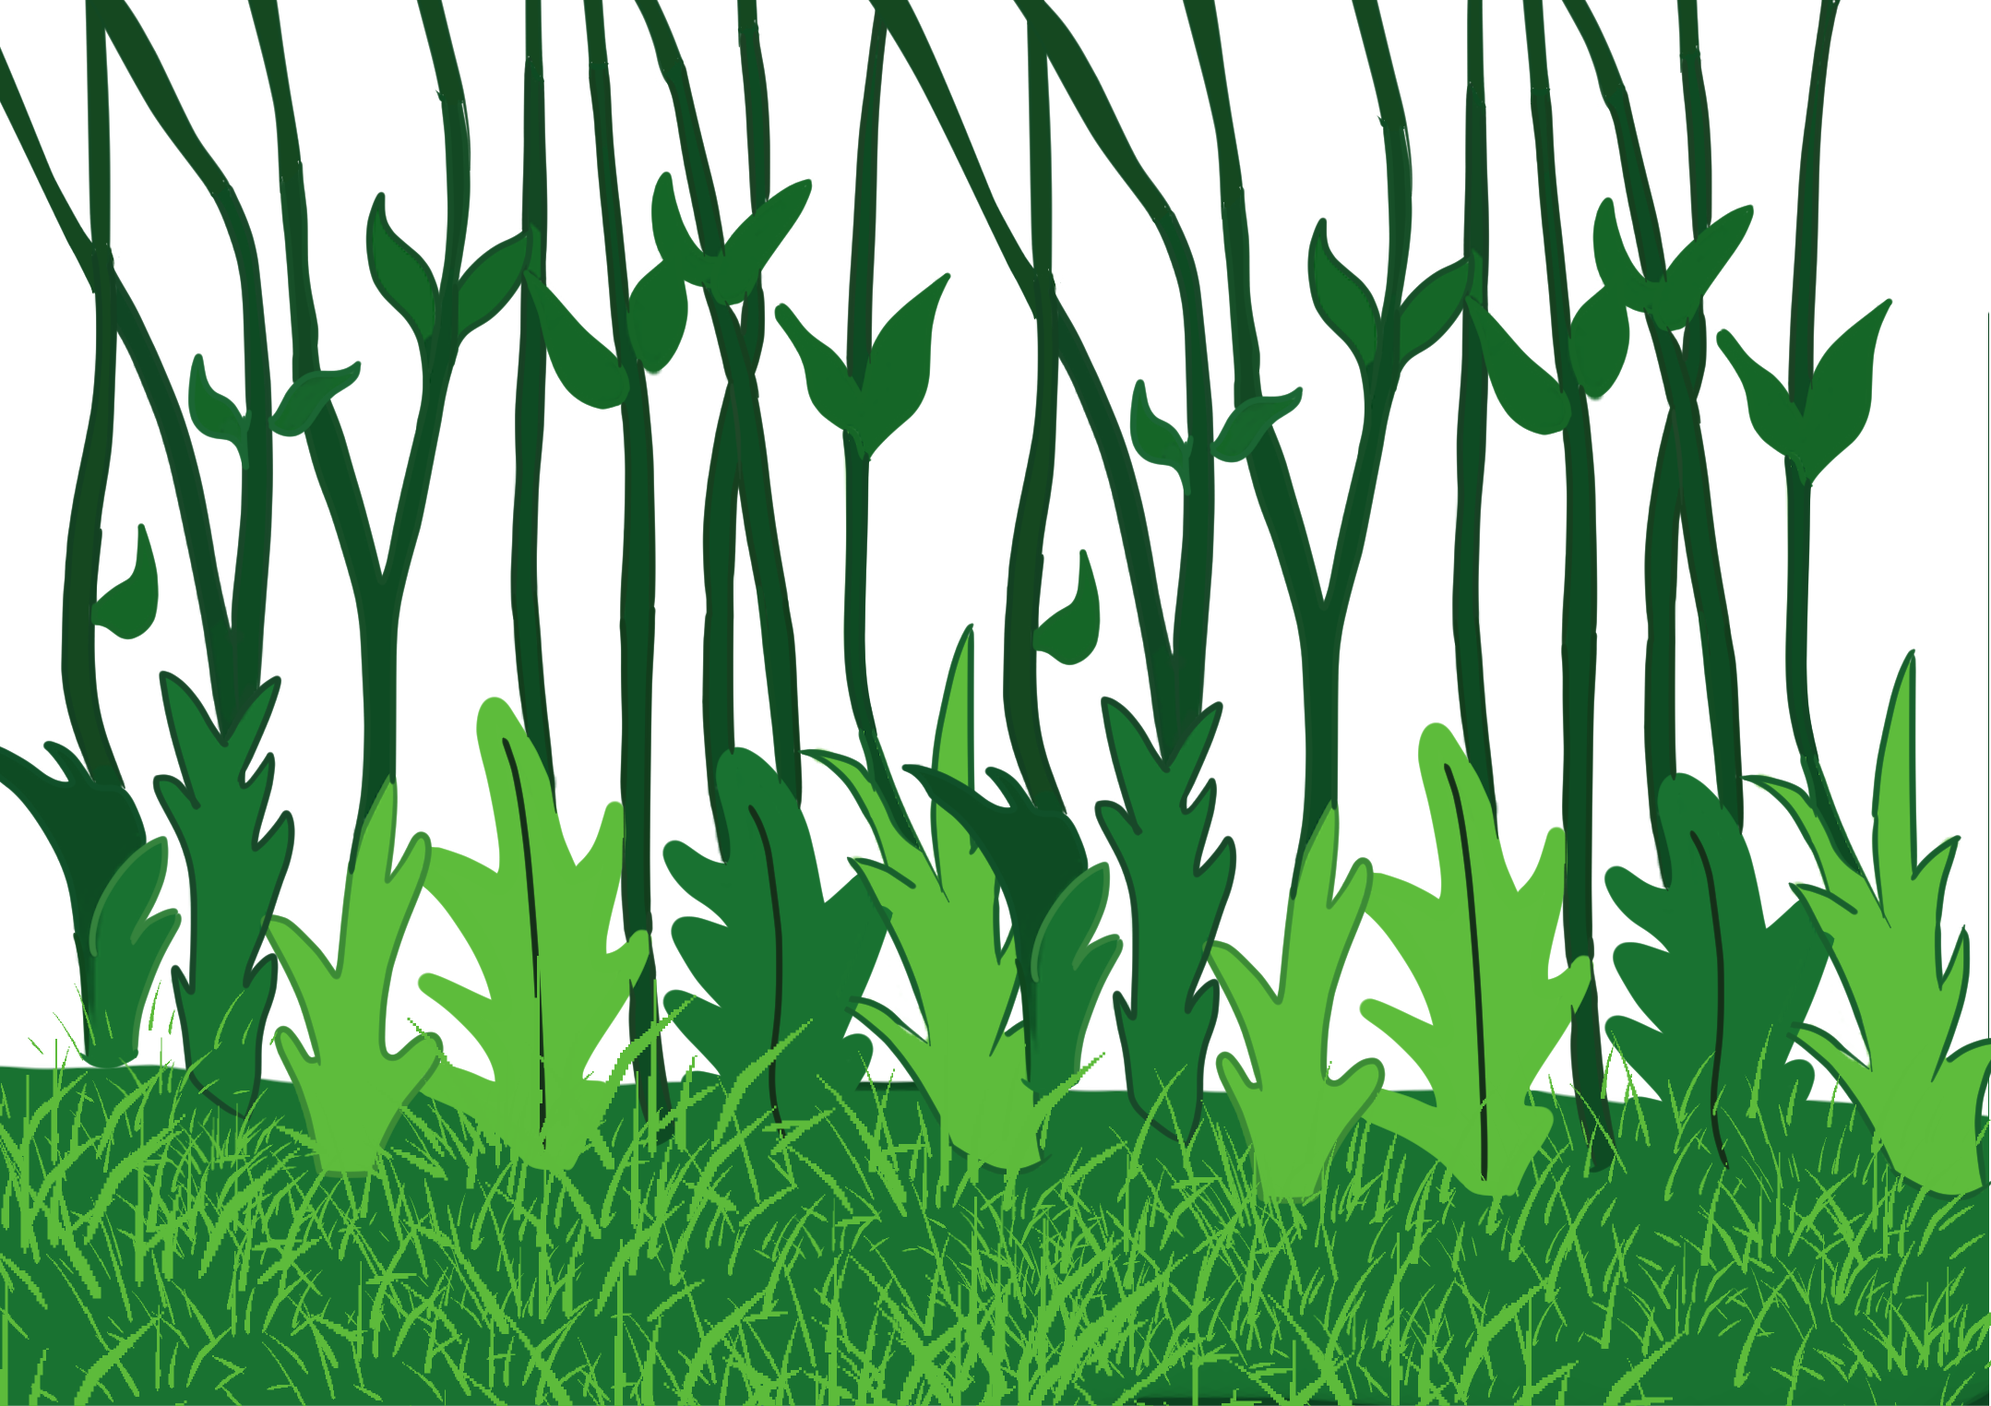
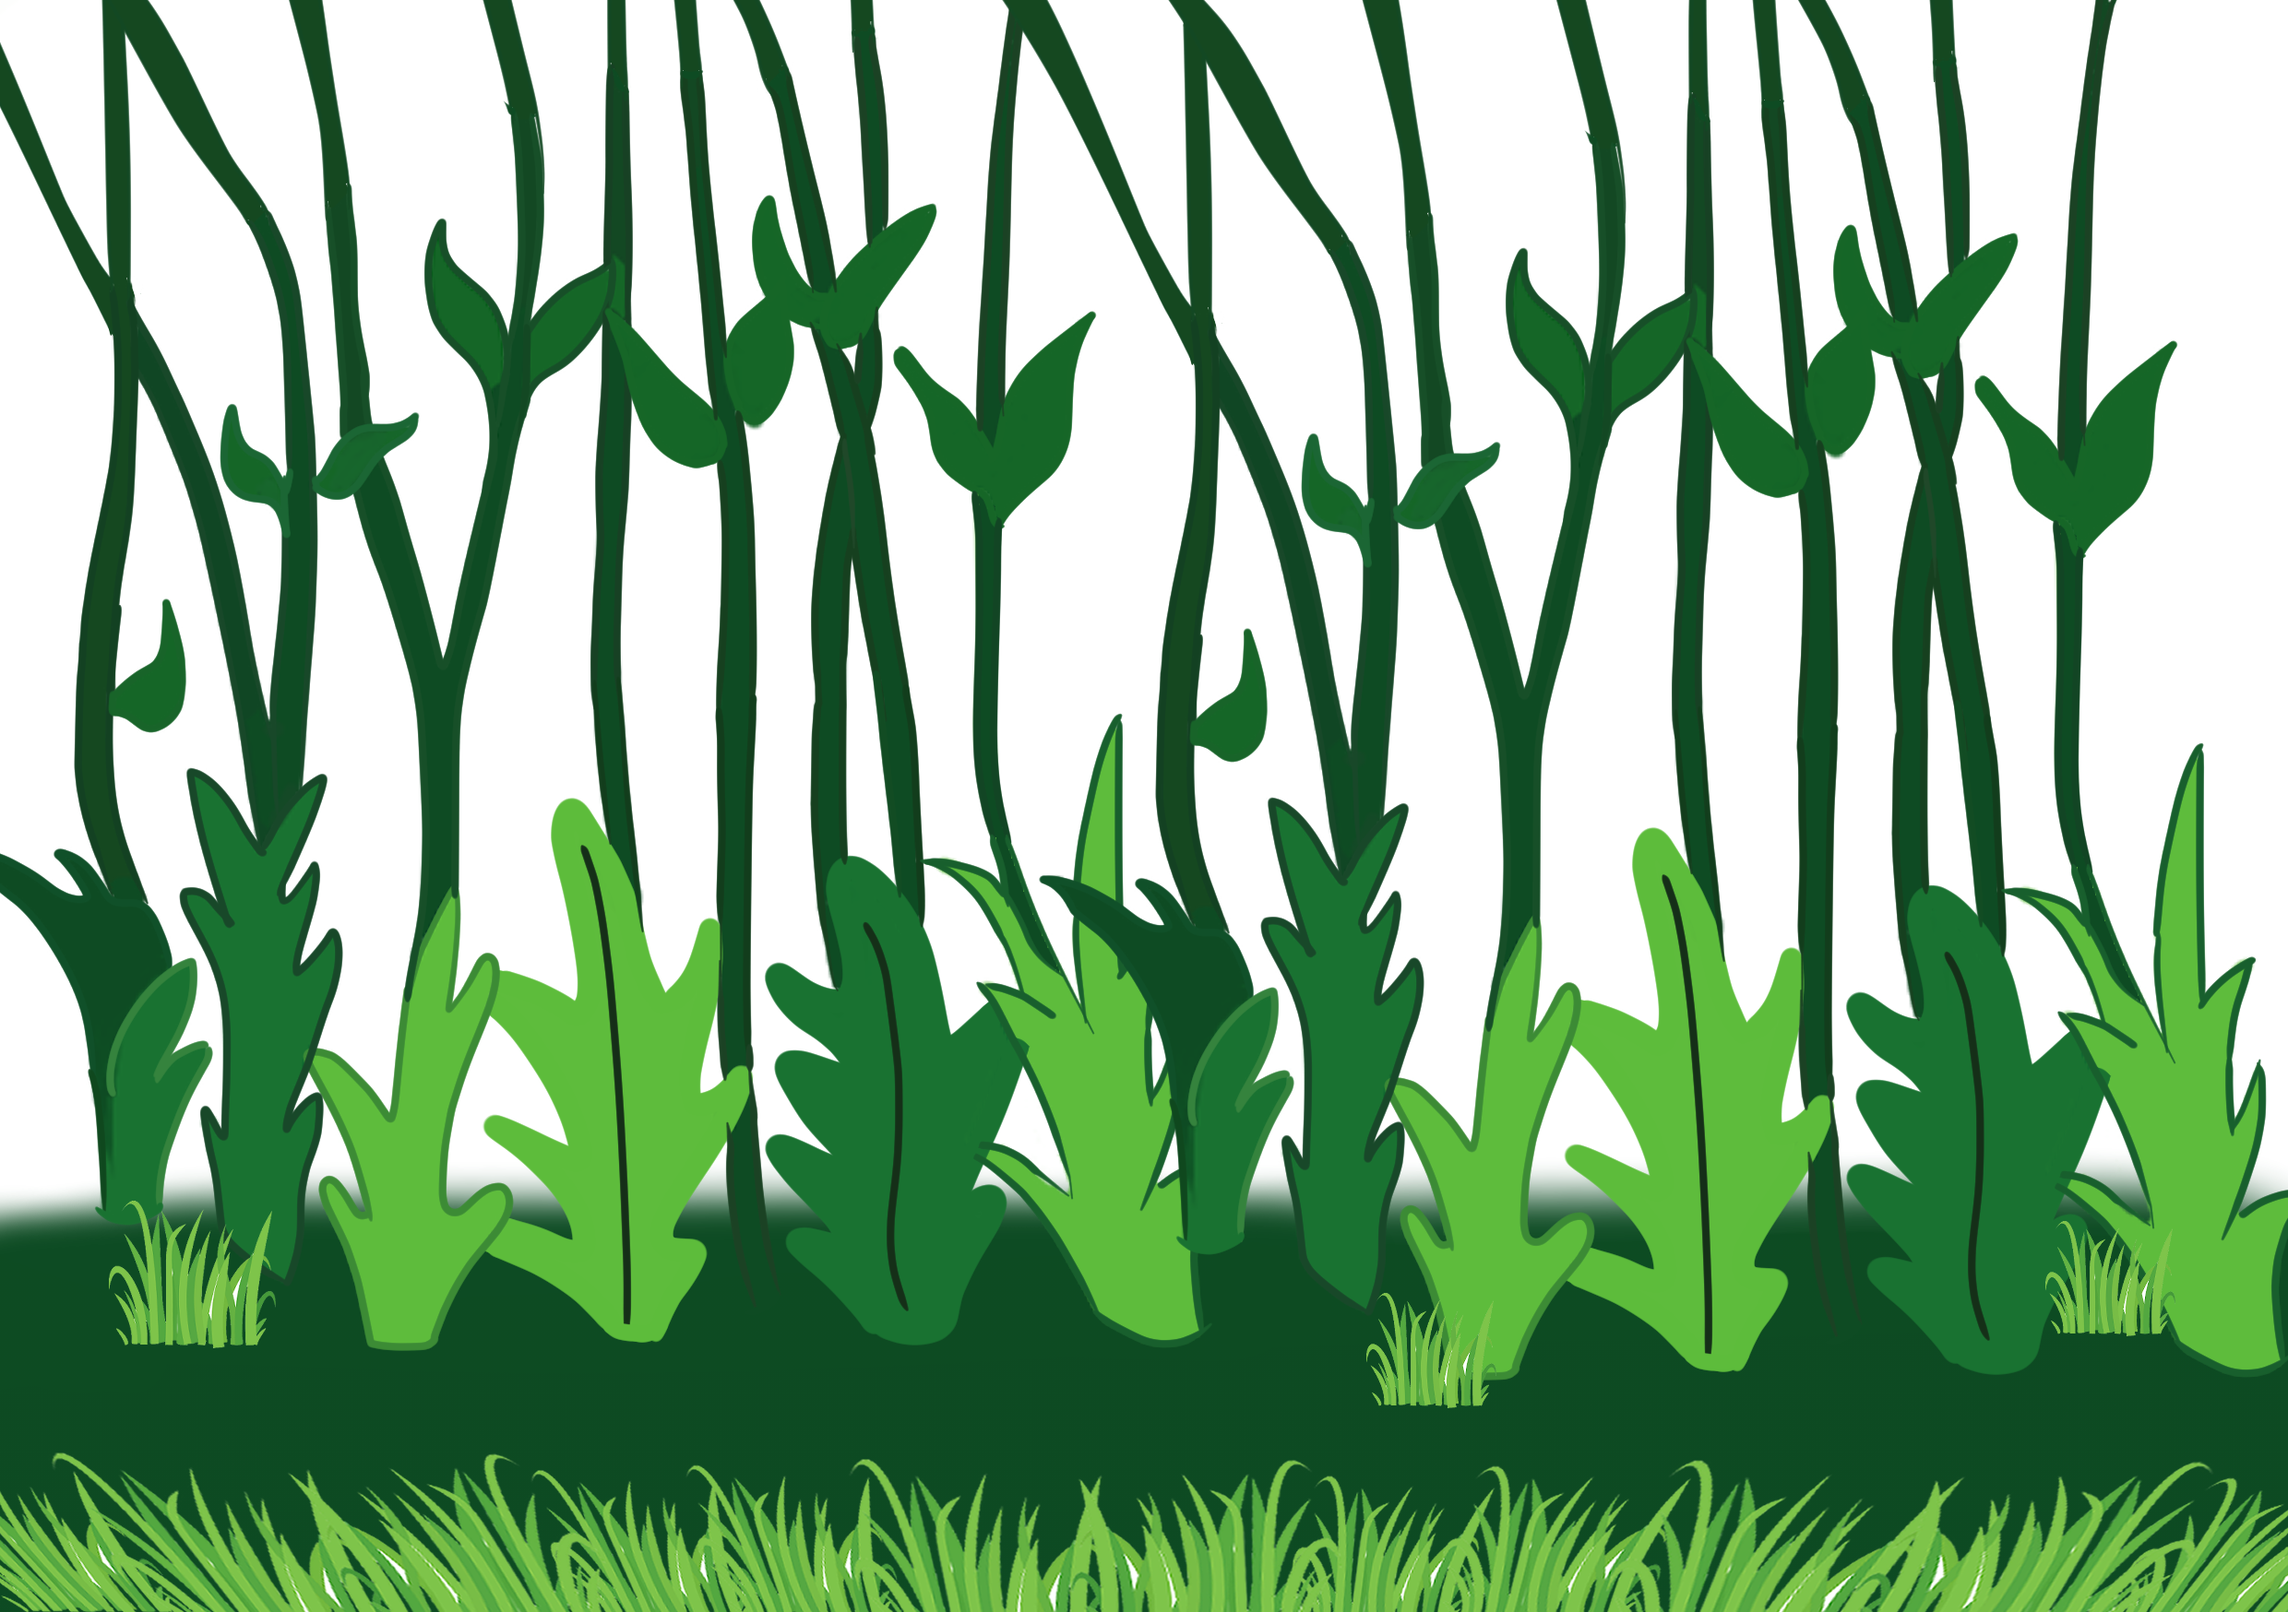
#140 responsivitet

diff --git a/src/components/SingingFlowers/SingingFlowers.js b/src/components/SingingFlowers/SingingFlowers.js
@@ -3,8 +3,7 @@ import styled from "styled-components";
 import CanvasBackground from "./CanvasBackground";
 import SandwichBird from "./SandwichBird";
 import Flowers from "./Flowers";
-// import FrontStems from "./images/front-stems.png";
-import FrontStems from "./images/front-stems2.png";
+import FrontStems from "./images/front-stems.png";
 import BigFLowers from "./images/big-flowers.png";
 import BackStems from "./images/back-stems.png";
 import Net from "./images/net.png";
@@ -15,6 +14,11 @@ function SingingFlowers() {
       <Suspense fallback={<h1>laddas</h1>}>
         <CanvasBackground />
       </Suspense>
+      <BigBackgroundImage
+        src={BackStems}
+        alt="Many green stems"
+        height="100%"
+      />
       <SandwichBird />
       <BigBackgroundImage
         src={FrontStems}
@@ -34,18 +38,23 @@ function SingingFlowers() {
 export default SingingFlowers;
 
 const Root = styled.div`
-  background-image: url(${BackStems});
-  background-size: cover;
-  background-repeat: no-repeat;
-
+  position: relative;
   height: 100vh;
   display: flex;
   align-items: flex-end;
   cursor: url(${Net}) 40 40, auto;
+
+  @media (max-width: 800px) {
+    overflow: hidden;
+  }
 `;
 
 const BigBackgroundImage = styled.img`
   position: absolute;
   pointer-events: none;
   width: 100%;
+
+  @media (max-width: 800px) {
+    width: auto;
+  }
 `;

diff --git a/src/components/SingingFlowers/Flowers.js b/src/components/SingingFlowers/Flowers.js
@@ -58,10 +58,19 @@ const FlowerContent = styled.div`
   height: 50%;
   z-index: 1;
   position: relative;
+  pointer-events: none;
 `;
 
 const RoseDiv = styled.div`
   height: 100%;
+
+  :hover {
+    background: pink;
+  }
+
+  @media (max-width: 800px) {
+    margin-bottom: 30%;
+  }
 `;
 
 const moveRight = keyframes`
@@ -93,6 +102,7 @@ const Miniflowers = styled.div`
   > img:nth-child(4) {
     animation: ${moveRight} 2s infinite;
   }
+
   > img:nth-child(2),
   > img:nth-child(5),
   > img:nth-child(6),
@@ -105,4 +115,9 @@ const JammingFlower = styled.img`
   position: absolute;
   bottom: ${(props) => props.bottom}%;
   left: ${(props) => props.left}%;
+
+  @media (max-width: 800px) {
+    bottom: ${(props) => props.bottom}%;
+    left: ${(props) => props.left + 15}%;
+  }
 `;
